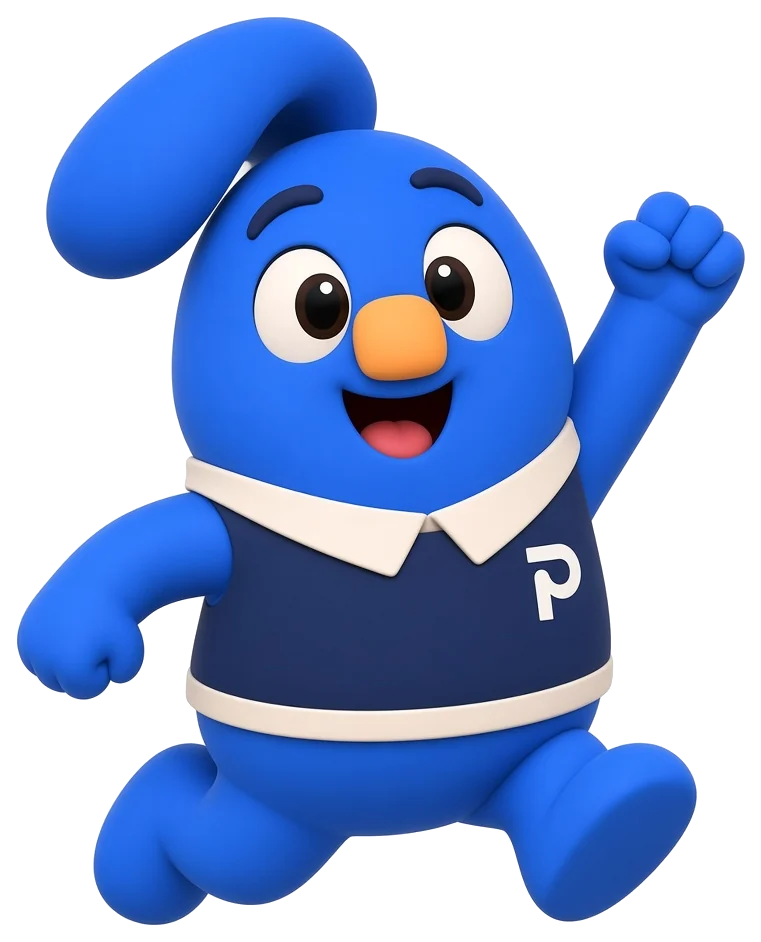
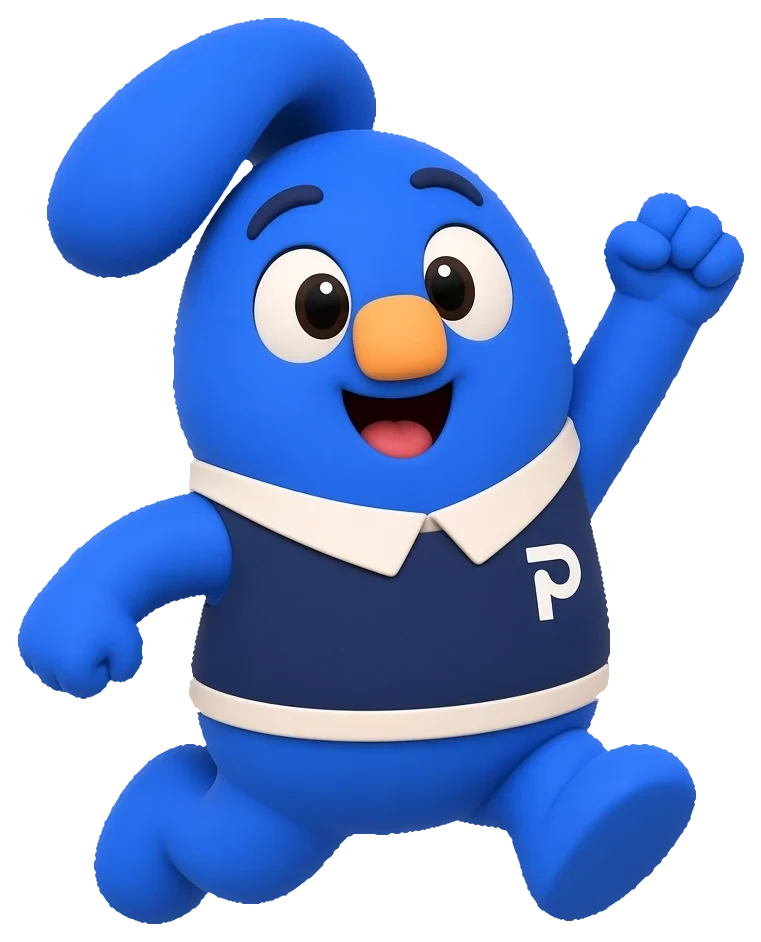
C: clean character edges, soft shadows, hero spacing, mobile nav
- jump stickers: light matte fringe and the white gap by Bobo's ear
  removed (tools/defringe.py; originals kept outside the repo)
- characters: soft drop shadows instead of flat offset ones; hero
  characters get a ground shadow that shrinks as they hop
- hero: more space under the nav and under the CTA buttons; tag gets
  a white line with the navy shadow
- mobile nav: 체험하기 button hidden (hero CTA right below), logo stays
  on one line

diff --git a/assets/css/concept-c.css b/assets/css/concept-c.css
@@ -88,6 +88,7 @@ p { margin: 0; }
 .t-teal { background: var(--c-teal); color: var(--c-white); }
 .t-white { background: var(--c-white); color: var(--c-navy); }
 .hero .tag { font-family: var(--f-kr); font-weight: 800; letter-spacing: 0; text-transform: none; }
+.hero .tag.t-blue { border-color: var(--c-white); }   /* white line, navy hard shadow stays (user 2026-11-25) */
 
 /* ---------- buttons ---------- */
 .btn {
@@ -160,7 +161,7 @@ p { margin: 0; }
 /* ---------- hero ---------- */
 .hero {
   position: relative; min-height: 0; display: flex; align-items: center; overflow: hidden;
-  padding: 136px 0 64px; background: var(--c-blue); color: var(--c-white);
+  padding: 168px 0 104px; background: var(--c-blue); color: var(--c-white);
 }
 .hero-dots {
   position: absolute; inset: 0; pointer-events: none;
@@ -210,10 +211,20 @@ p { margin: 0; }
 .sp3 { top: 52%; right: 18%; width: 4cqw; height: 4cqw; animation-delay: -1.8s; }
 .friends { position: absolute; inset: 0; transform-origin: 50% 100%; }
 .friends.bop { animation: bop .7s var(--spring); }
-.stk-char { position: absolute; bottom: 0; filter: drop-shadow(8px 10px 0 var(--c-navy-a35)); animation: hop 2.4s ease-in-out infinite; }
+.stk-char { position: absolute; bottom: 0; filter: drop-shadow(0 18px 22px rgba(17, 29, 56, .28)) drop-shadow(0 4px 6px rgba(17, 29, 56, .18)); animation: hop 2.4s ease-in-out infinite; }
 .sc-bobo { left: -2%; width: 46%; bottom: 1%; rotate: -8deg; animation-delay: -.4s; }
 .sc-nunu { right: -4%; width: 50%; bottom: 2%; rotate: 6deg; animation-delay: -1.2s; }
 .sc-tata { left: 28%; width: 44%; bottom: -2%; rotate: 2deg; z-index: 1; animation-delay: -2s; }
+/* soft contact shadow on the ground under each jumping character; shrinks and fades as they hop (user 2026-11-25) */
+.ground-shadow { position: absolute; bottom: 2%; height: 6%; border-radius: 50%; pointer-events: none; z-index: 0;
+  background: radial-gradient(closest-side, rgba(8, 16, 40, .62), rgba(8, 16, 40, .34) 50%, rgba(8, 16, 40, 0));
+  filter: blur(2px); animation: shadowHop 2.4s ease-in-out infinite; }
+.gs-bobo { left: 3%; width: 36%; }
+.gs-nunu { right: 0; width: 40%; bottom: 3%; }
+.gs-tata { left: 31%; width: 38%; bottom: -1%; z-index: 1; }
+.gs-bobo { animation-delay: -.4s; } .gs-nunu { animation-delay: -1.2s; } .gs-tata { animation-delay: -2s; }
+@keyframes shadowHop { 0%, 100% { transform: scale(1); opacity: 1; } 32% { transform: scale(.78); opacity: .55; } 48% { transform: scale(.98); opacity: .95; } 64% { transform: scale(.85); opacity: .7; } }
+@media (prefers-reduced-motion: reduce) { .ground-shadow { animation: none; } }
 .bubble {
   position: absolute; top: 32%; left: 36%; z-index: 2; padding: 8px 16px; border: var(--bd); border-radius: 18px 18px 18px 4px; background: var(--c-white); color: var(--c-navy);
   box-shadow: var(--hard-xs); font-family: var(--f-en); font-weight: 600; font-size: clamp(14px, 3cqw, 21px); letter-spacing: 0; rotate: -5deg; white-space: nowrap;
@@ -259,7 +270,7 @@ p { margin: 0; }
 .why-card.c-orange { background: var(--c-orange-100); }
 .why-card.c-blue { background: var(--c-blue-100); }
 .why-card.c-yellow { background: var(--c-yellow-100); }
-.face { width: 112px; height: 112px; object-fit: contain; flex: none; rotate: -6deg; filter: drop-shadow(4px 5px 0 var(--c-navy-a25)); }
+.face { width: 112px; height: 112px; object-fit: contain; flex: none; rotate: -6deg; filter: drop-shadow(0 10px 12px rgba(17, 29, 56, .22)) drop-shadow(0 2px 4px rgba(17, 29, 56, .14)); }
 .why-card h3 { font-family: var(--f-disp); font-weight: 400; font-size: 25px; color: var(--c-navy); margin-bottom: 6px; }
 .why-card p { font-size: 16px; color: var(--c-ink-2); font-weight: 500; }
 /* full-body jump stickers that stick out of the card (user 2026-11-25) */
@@ -462,7 +473,7 @@ p { margin: 0; }
 .faq { background: var(--c-cream); }
 .faq-grid { display: grid; grid-template-columns: .8fr 1.2fr; gap: clamp(32px, 6vw, 90px); align-items: start; }
 .faq-head { position: sticky; top: 120px; }
-.faq-char { width: 240px; margin-top: 18px; rotate: -6deg; filter: drop-shadow(6px 8px 0 var(--c-navy-a25)); animation: hop 2.6s ease-in-out infinite; }
+.faq-char { width: 240px; margin-top: 18px; rotate: -6deg; filter: drop-shadow(0 18px 22px rgba(17, 29, 56, .28)) drop-shadow(0 4px 6px rgba(17, 29, 56, .18)); animation: hop 2.6s ease-in-out infinite; }
 .faq-list { display: grid; gap: 16px; }
 .qa { border: var(--bd); border-radius: 22px; background: var(--c-white); box-shadow: var(--hard-sm); overflow: hidden; }
 .qa summary { list-style: none; cursor: pointer; display: flex; align-items: center; justify-content: space-between; gap: 16px; padding: 20px 22px; font-size: 18px; font-weight: 900; color: var(--c-navy); }
@@ -483,7 +494,7 @@ p { margin: 0; }
 .cta-art { container-type: inline-size; }
 .cta-burst-txt { position: absolute; left: 50%; top: 24cqw; translate: -50% -50%; rotate: -8deg; text-align: center; font-family: var(--f-en); font-weight: 700; font-size: clamp(26px, 7cqw, 44px); line-height: 1; color: var(--c-navy); letter-spacing: 0; }
 .cta-burst-txt b { color: var(--c-orange); font-size: 1.25em; -webkit-text-stroke: 2px var(--c-navy); paint-order: stroke fill; }
-.cc { position: absolute; bottom: -6%; filter: drop-shadow(6px 8px 0 var(--c-navy-a25)); transition: transform .5s var(--spring); animation: hop 2.5s ease-in-out infinite; }
+.cc { position: absolute; bottom: -6%; filter: drop-shadow(0 18px 22px rgba(17, 29, 56, .28)) drop-shadow(0 4px 6px rgba(17, 29, 56, .18)); transition: transform .5s var(--spring); animation: hop 2.5s ease-in-out infinite; }
 .cc-bobo { left: -4%; width: 46%; rotate: -10deg; animation-delay: -.3s; }
 .cc-nunu { right: -6%; width: 52%; rotate: 8deg; bottom: -10%; animation-delay: -1.1s; }
 .cc-tata { left: 26%; width: 46%; rotate: 2deg; z-index: 1; bottom: -4%; animation-delay: -1.9s; }
@@ -528,7 +539,7 @@ p { margin: 0; }
   .steps { grid-template-columns: repeat(2, 1fr); gap: 40px 22px; }
 }
 @media (max-width: 900px) {
-  .hero { padding-top: 116px; padding-bottom: 48px; }
+  .hero { padding-top: 132px; padding-bottom: 72px; }
   .hero-in { grid-template-columns: 1fr; }
   .hero-art { max-width: 600px; width: 100%; margin: 0 auto; }
   .why-grid, .faq-grid, .flow-head { grid-template-columns: 1fr; }
@@ -552,8 +563,11 @@ p { margin: 0; }
   .nav { top: 16px; padding-left: 10px; }
   .brand-mark { width: 34px; height: 34px; font-size: 19px; }
   .brand-word { font-size: 18px; }
-  .nav-cta { font-size: 15px; padding: 4px 4px 4px 16px; }
-  .nav-cta .ic-dot { width: 34px; height: 34px; }
+  .nav-cta { font-size: 15px; padding: 4px 4px 4px 14px; gap: 6px; }
+  .nav-cta .ic-dot { width: 32px; height: 32px; }
+  .nav .brand-word { white-space: nowrap; }
+  .nav-cta { display: none; }   /* mobile: the hero CTA sits right below (user 2026-11-25) */
+  .nav-menu { margin-left: auto; }
   .hero-title { font-size: clamp(46px, 14vw, 64px); text-shadow: 4px 4px 0 var(--c-navy); }
   .cta-row .btn { flex: 1 1 auto; justify-content: space-between; }
   .cta-row .btn-ghost { justify-content: center; }

diff --git a/concept-c.html b/concept-c.html
@@ -97,6 +97,9 @@
       <svg class="spk sp2" aria-hidden="true"><use href="#spark"/></svg>
       <svg class="spk sp3" aria-hidden="true"><use href="#spark"/></svg>
       <div class="friends" role="img" aria-label="Phonics Land 친구들 보보, 타타, 누누 스티커">
+        <span class="ground-shadow gs-bobo" aria-hidden="true"></span>
+        <span class="ground-shadow gs-nunu" aria-hidden="true"></span>
+        <span class="ground-shadow gs-tata" aria-hidden="true"></span>
         <img class="stk-char sc-bobo" src="assets/img/concept-c/bobo-jump.webp" width="761" height="942" alt="">
         <img class="stk-char sc-nunu" src="assets/img/concept-c/nunu-jump.webp" width="836" height="944" alt="">
         <img class="stk-char sc-tata" src="assets/img/concept-c/tata-jump.webp" width="768" height="954" alt="">

diff --git a/tools/defringe.py b/tools/defringe.py
@@ -1,0 +1,49 @@
+"""Clean cut-out edges: drop the light matte fringe, pull edge colours from the inside, re-antialias the alpha.
+usage: uv run --with numpy --with scipy --with pillow python tools/defringe.py IN.webp [OUT.webp] [--clear x0,y0,x1,y1 ...]
+--clear: a box where light, cool pixels are leftover background sealed off by the character (Bobo's ear gap)."""
+import sys
+import numpy as np
+from PIL import Image
+from scipy import ndimage as nd
+args = sys.argv[1:]
+boxes = [tuple(int(v) for v in args[i + 1].split(',')) for i, a in enumerate(args) if a == '--clear']
+pos = [a for i, a in enumerate(args) if a != '--clear' and (i == 0 or args[i - 1] != '--clear')]
+src = pos[0]; dst = pos[1] if len(pos) > 1 else src
+im = np.asarray(Image.open(src).convert('RGBA')).astype(np.float32)
+rgb, al = im[..., :3], im[..., 3]
+solid = al > 128
+# white background trapped in gaps (e.g. between Bobo's ear and head): grow the outside through light, cool/neutral
+# pixels. Warm creams (collars, r > b) and enclosed whites (eyes, logo) are never reached.
+mn0, mx0 = rgb.min(-1), rgb.max(-1)
+light_cool = solid & (mn0 > 185) & ((rgb[..., 2] - rgb[..., 0]) >= -6) & (mx0 - mn0 < 60)
+lab0, _ = nd.label(~solid | light_cool)
+bg_ids = np.unique(lab0[~solid]); bg_ids = bg_ids[bg_ids > 0]
+trapped = np.isin(lab0, bg_ids) & solid
+solid = solid & ~nd.binary_dilation(trapped, iterations=1)
+for x0, y0, x1, y1 in boxes:
+    box = np.zeros_like(solid); box[y0:y1, x0:x1] = True
+    sealed = box & solid & (mn0 > 150) & ((rgb[..., 2] - rgb[..., 0]) >= -6)
+    solid = solid & ~nd.binary_dilation(sealed, iterations=1)
+# light, low-saturation pixels on the outer rim = leftover white matte
+rim = solid & ~nd.binary_erosion(solid, iterations=3)
+mn, mx = rgb.min(-1), rgb.max(-1)
+matte = rim & (mn > 185) & (mx - mn < 40)
+mask = solid & ~matte
+mask = nd.binary_opening(mask, iterations=1)          # nibble single-pixel spurs
+mask = nd.binary_erosion(mask, iterations=1)          # 1px inset so no fringe survives
+lab, n = nd.label(mask)                               # keep the character, drop crumbs
+if n > 1:
+    sizes = nd.sum(mask, lab, range(1, n + 1)); mask = lab == (int(np.argmax(sizes)) + 1)
+# colours: every pixel near/outside the edge takes the nearest well-inside colour
+inner = nd.binary_erosion(mask, iterations=3)
+_, (iy, ix) = nd.distance_transform_edt(~inner, return_indices=True)
+fixed = rgb[iy, ix]
+keep = inner[..., None]
+rgb2 = np.where(keep, rgb, fixed)
+# antialiased alpha from the binary mask (supersampled feel via blur + contrast)
+soft = nd.gaussian_filter(mask.astype(np.float32), sigma=1.0)
+alpha = np.clip((soft - .5) * 2.4 + .5, 0, 1) * 255
+out = np.dstack([rgb2, alpha]).clip(0, 255).astype(np.uint8)
+img = Image.fromarray(out, 'RGBA')   # keep the canvas so width/height in the HTML stay true
+img.save(dst, 'WEBP', quality=90, method=6)
+print(dst, img.size, 'matte px removed', int(matte.sum()), 'trapped bg px', int(trapped.sum()))
